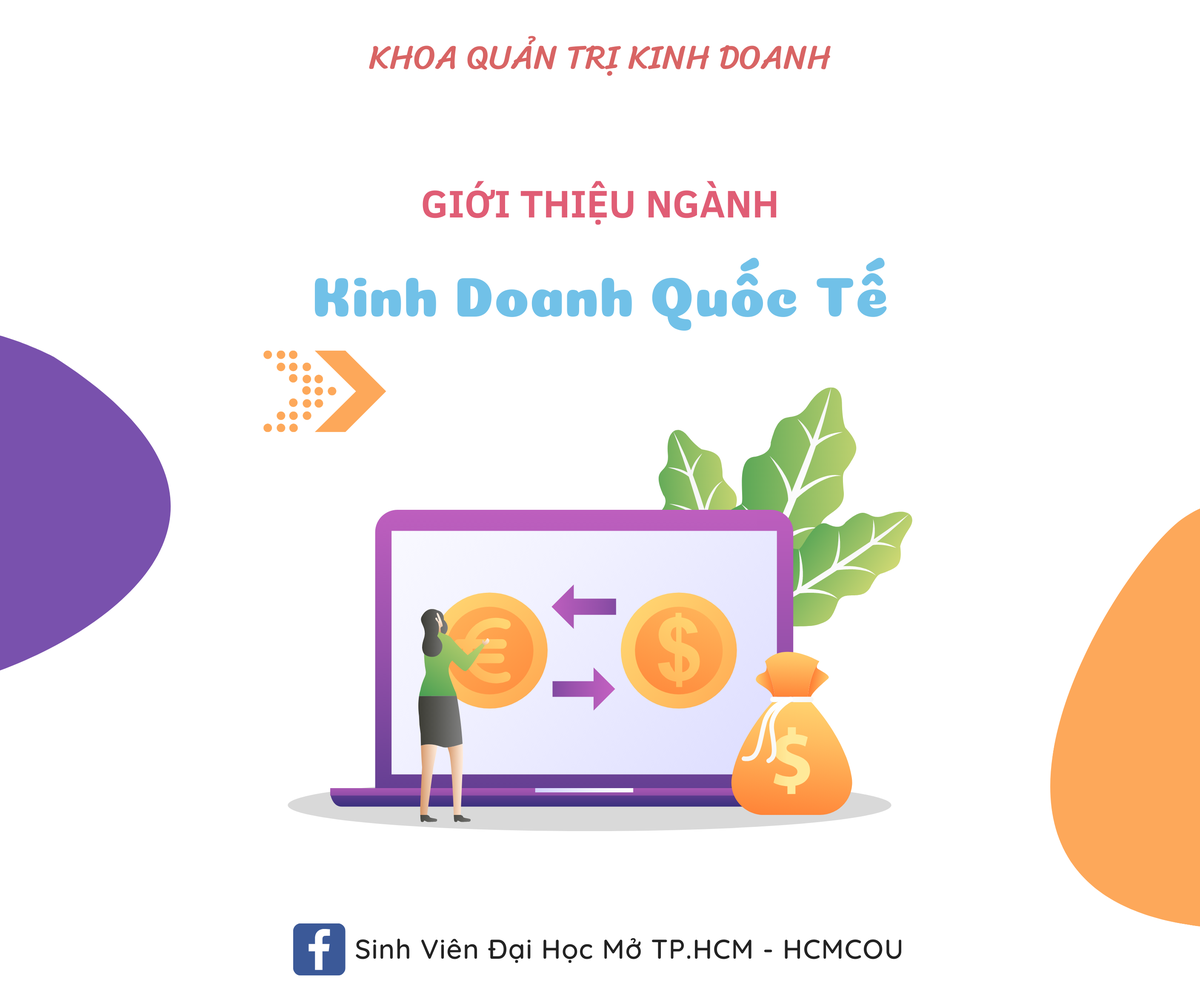
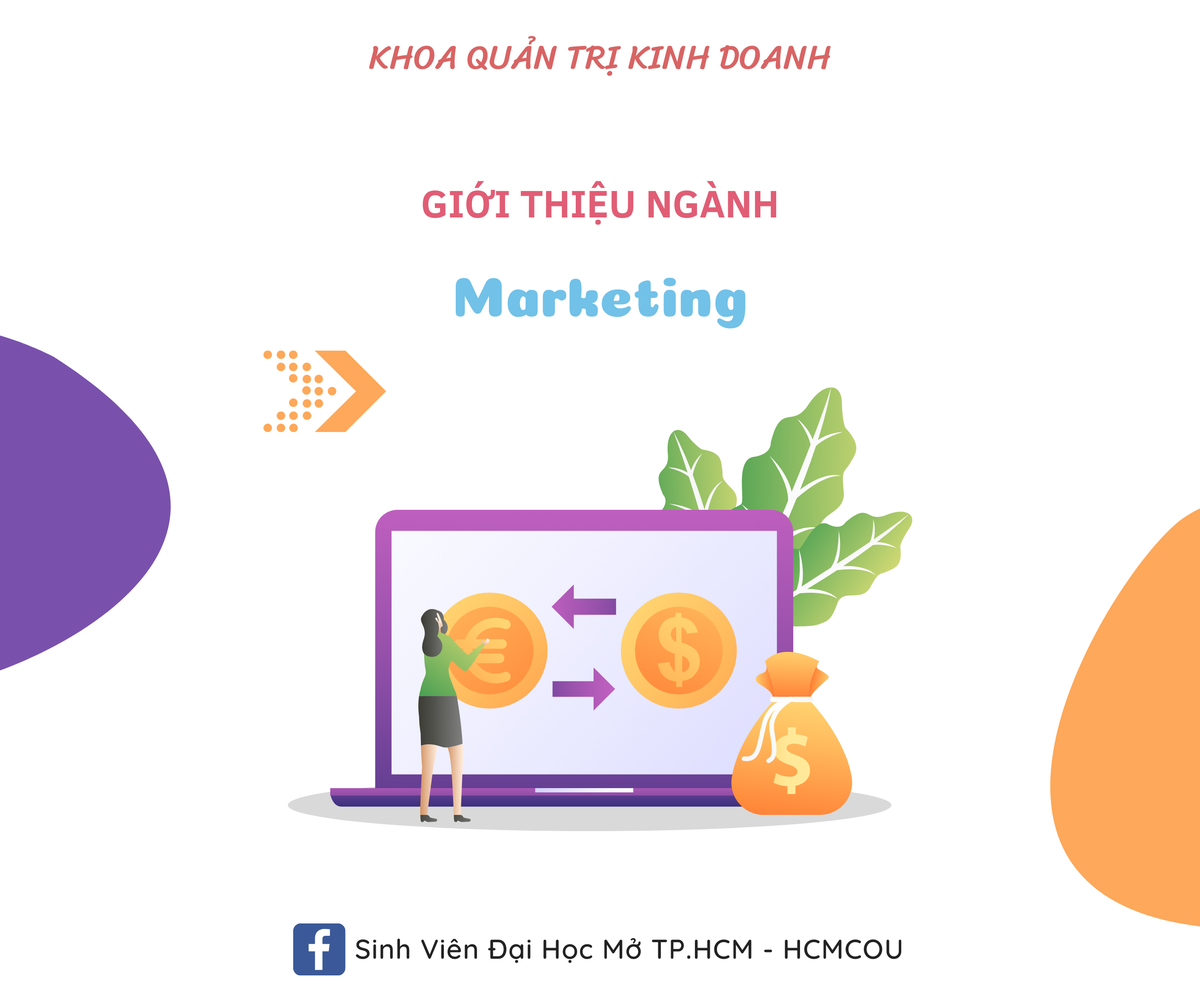
GitBook: [#24] No subject

Changed region(s): [[0.2496, 0.247, 0.7489, 0.3397]]

diff --git a/gioi-thieu-khoa-nganh-dao-tao/khoa-cong-nghe-sinh-hoc/nganh-cong-nghe-sinh-hoc.md b/gioi-thieu-khoa-nganh-dao-tao/khoa-cong-nghe-sinh-hoc/nganh-cong-nghe-sinh-hoc.md
@@ -11,32 +11,146 @@ coverY: 0
 ## Nội dung chương trình đào tạo
 
 {% hint style="info" %}
-Ngày 25/03 sẽ đăng tại đây và đăng trong group ["Sinh viên Đại học Mở TP.HCM- HCMCOU"](https://www.facebook.com/groups/oumembers)
+**Chương trình đào tạo CNSH**, hệ đại học chính quy có thời gian 4 năm (11 học kỳ). Với mục tiêu đào tạo giáo dục toàn diện một con người, phần kiến thức khoa học cơ bản trong CTĐT CNSH sẽ bao gồm các môn học như: Toán học, hóa học, tin học, con người và môi trường
+
+**Bên cạnh đó, phần kiến thức khoa học xã hội cũng sẽ được chọn lọc để đào tạo, bao gồm các môn học như:**
+
+* Tâm lý học đại cương/ Nguyên lý kế toán/ Kinh tế học đại cương
+* Pháp luật đại cương
+* Bên cạnh các môn học bắt buộc như:
+* Những nguyên lý cơ bản của Chủ nghĩa Mác – Lênin
+* Đường lối cách mạng của ĐCSVN
+* Tư tưởng Hồ Chí Minh
+{% endhint %}
+
+{% hint style="info" %}
+**Phần kiến thức cơ sở ngành (CNSH), CTĐT sẽ tập trung các chủ thể thuộc kiến thức Sinh học với các môn như:**
+
+* Sinh học đại cương
+* Tế bào học
+* Sinh học phân tử
+* Di truyền học
+* Vi sinh vật học
+* Sinh hóa học
+* Sinh lý động vật
+* Sinh lý thực vật
+{% endhint %}
+
+{% hint style="info" %}
+**Tiếp theo, các công nghệ cốt lõi của CNSH sẽ được truyền tài với các môn như:**
+
+* Công nghệ gen
+* Công nghệ protein – enzyme
+* Công nghệ tế bào
+* Công nghệ vi sinh
+* Quá trình và thiết bị CNSH
+{% endhint %}
+
+{% hint style="info" %}
+**Song song đó, phần kiến thức bổ trợ nhằm trang bị hỗ trợ cho SV các kĩ năng tính toán áp dụng trong CNSH, với các môn học điển hình như:**
+
+* Thống kê sinh học
+* Ứng dụng tin học trong CNSH
+* Phương pháp NCKH
 {% endhint %}
 
 ## Chuyên ngành
 
 {% hint style="info" %}
-Ngày 25/03 sẽ đăng tại đây và đăng trong group ["Sinh viên Đại học Mở TP.HCM- HCMCOU"](https://www.facebook.com/groups/oumembers)
+**Từ học kỳ thứ 8 sinh viên được chọn chuyên ngành với 3 chuyên ngành chính:**
+
+* Chuyên ngành CNSH Y – Dược
+* Chuyên ngành CNSH Nông nghiệp – Môi trường
+* Chuyên ngành Công nghệ Thực phẩm
+
+Giai đoạn chuyên ngành, CTĐT tiếp tục cung cấp kiến thức lý thuyết và thực tiễn thuộc từng lĩnh vực ứng dụng của Công nghệ Sinh học, những kỹ năng thực hành nghề nghiệp được chú trọng
+{% endhint %}
+
+### Chuyên ngành Công nghệ Sinh học Y – Dược
+
+{% hint style="info" %}
+CTĐT tập trung đào tạo các kiến thức và kĩ năng chuyên sâu về ứng dụng của CNSH trong chẩn đoán, trị liệu bệnh ở người, có kiến thức và kĩ năng để hiểu và khai thác tốt hơn nguồn dược liệu…, với các môn học điển hình như:
+
+* CNSH phân tử ứng dụng trong chẩn đoán bệnh ở người.
+* CNSH ứng dụng trong trị liệu bệnh ở người.
+* Vi sinh y học.
+* Vi sinh công nghệ dược.
+* CNSH thực vật ứng dụng trong dược học.
+* Chiết xuất dược liệu.
+* Miễn dịch học.
+* Hợp chất tự nhiên có hoạt tính sinh học.
+* Hệ thống quản lý chất lượng trong sản xuất dược phẩm.
+* Kĩ thuật phân tích hiện đại trong công nghệ sinh học.
+{% endhint %}
+
+### Chuyên ngành Công nghệ Sinh học Nông nghiệp – Môi trường
+
+{% hint style="info" %}
+CTĐT tập trung đào tạo các kiến thức và kĩ năng chuyên sâu về ứng dụng của CNSH trong chọn tạo giống thực vật, bảo vệ thực vật, nuôi cấy mô, tế bào thực vật, vi sinh vật; cũng như kiến thức và kĩ năng về môi trường, đánh giá tác động môi trường, quản lý môi truòng, với các môn điển hình như:
+
+* Kĩ thuật chuyển gen.
+* Kĩ thuật môi trường.
+* CNSH ứng dụng trong nông nghiệp – môi trường.
+* CNSH ứng dụng trong chọn tạo giống thực vật.
+* CNSH ứng dụng trong bảo vệ thực vật.
+* Công nghệ trồng nấm.
+* Công nghệ sản xuất phân bón sinh học.
+* Công nghệ sau thu hoạch.
+* Nông nghiệp công nghệ cao.
+* Đánh giá tác động môi trường.
+* Quản lý môi trường.
+{% endhint %}
+
+### Chuyên ngành Công nghệ Sinh học Thực phẩm
+
+{% hint style="info" %}
+CTĐT tập trung đào tạo các kiến thức và kĩ năng chuyên sâu trong khoa học thực phẩm, các kĩ thuật phân tích chất lượng, chế biến, sản xuất và bảo quản thực phẩm với các môn điển hình như:
+
+* Hóa sinh thực phẩm.
+* Dinh dưỡng người.
+* An toàn vệ sinh thực phẩm.
+* Kĩ thuật phân tích thực phẩm.
+* Vi sinh thực phẩm.
+* Thực phẩm chức năng.
+* Đánh giá cảm quan thực phẩm.
+* Các quá trình và thiết bị trong công nghệ thực phẩm.
+* Các kĩ thuật hiện đại trong công nghệ thực phẩm.
+* Công nghệ bảo quản và chế biến thịt và thủy sản.
+* Công nghệ bảo quản và chế biến rau quả.
 {% endhint %}
 
 ## Cơ hội việc làm
 
 {% hint style="info" %}
-Ngày 25/03 sẽ đăng tại đây và đăng trong group ["Sinh viên Đại học Mở TP.HCM- HCMCOU"](https://www.facebook.com/groups/oumembers)
+SV tốt nghiệp ngành CNSH, CNTP có thể làm việc trong nhiều lĩnh vực khác nhau y dược, nông nghiệp, môi trường, thực phẩm tại các tổ chức, cơ quan nhà nước hoặc doanh nghiệp tư nhân.
+
+* Nghiên cứu viên tại các Trường đại học, các cơ quan pháp y, các Trung tâm và Viện nghiên cứu, các Công ty, xí nghiệp, nhà máy sản xuất thuộc lĩnh vực CNSH, sinh học thực nghiệm và thực phẩm.
+* Chuyên viên tại các công ty chế biến nông sản, thực phẩm, thủy sản; Chuyên viên kiểm định chất lượng (QA), kiểm soát chất lượng nguyên liệu - sản phẩm (QC), nghiên cứu và phát triển sản phẩm mới (R\&D), quản lý an toàn vệ sinh thực phẩm dinh dưỡng thực phẩm, nhân viên kỹ thuật nghiên cứu tại các công ty hương liệu, phụ gia thực phẩm.
+* Kỹ thuật viên, kiểm nghiệm viên các Trung tâm kiểm nghiệm, trung tâm dịch vụ phân tích thí nghiệm.
+* Có thể tự tạo lập hoặc tham gia quản lý, điều hành trang trại, doanh nghiệp sản xuất, kinh doanh các sản phẩm CNSH
+* Nhân viên kinh doanh, tư vấn viên tại các đơn vị thương mại trong lĩnh vực Nông, Lâm, Ngư, Y Dược, Thực phẩm…, và tiếp tục học tập tại các bậc học cao hơn (cao học, nghiên cứu sinh) trong và ngoài nước.
 {% endhint %}
 
 ## Sự khác biệt của chương trình đào tạo
 
 {% hint style="info" %}
-Ngày 25/03 sẽ đăng tại đây và đăng trong group ["Sinh viên Đại học Mở TP.HCM- HCMCOU"](https://www.facebook.com/groups/oumembers)
+**CTĐT ngành Công Nghệ Sinh Học** được xây dựng hướng đến việc ứng dụng và kết hợp công nghệ, quy trình kỹ thuật hiện đại cùng nền tảng khoa học trong sinh học (vi sinh vật, tế bào thực vật và động vật) cũng như cải tạo các quy luật sinh học trong tự nhiên để sản xuất, tạo ra những sản phẩm sinh học chất lượng cao và có ích trong cuộc sống.
 {% endhint %}
 
-## Hoạt động sinh viên
+## Học phí
 
-{% hint style="info" %}
-Ngày 25/03 sẽ đăng tại đây và đăng trong group ["Sinh viên Đại học Mở TP.HCM- HCMCOU"](https://www.facebook.com/groups/oumembers)
-{% endhint %}
+| NGÀNH/NHÓM NGÀNH                                                                                                                                                                  | MỨC HỌC PHÍ BÌNH QUÂN      |
+| --------------------------------------------------------------------------------------------------------------------------------------------------------------------------------- | -------------------------- |
+| CÔNG NGHỆ SINH HỌC, CÔNG NGHỆ THỰC PHẨM                                                                                                                                           | 24,000,000/1 NĂM/SINH VIÊN |
+| CÔNG NGHỆ KỸ THUẬT CÔNG TRÌNH XÂY DỰNG, QUẢN LÝ XÂY DỰNG                                                                                                                          | 25,000,000/1 NĂM/SINH VIÊN |
+| KHOA HỌC MÁY TÍNH, HỆ THỐNG THÔNG TIN QUẢN LÝ, CÔNG NGHỆ THÔNG TIN                                                                                                                | 25,000,000/1 NĂM/SINH VIÊN |
+| KẾ TOÁN, KIỂM TOÁN,TÀI CHÍNH - NGÂN HÀNG, QUẢN TRỊ KINH DOANH, MARKETING, KINH DOANH QUỐC TẾ, QUẢN TRỊ NHÂN LỰC, LUẬT, LUẬT KINH TẾ, LOGISTICS VÀ QUẢN LÝ CHUỖI CUNG ỨNG, DU LỊCH | 23,000,000/1 NĂM/SINH VIÊN |
+| KINH TẾ - QUẢN LÝ CÔNG - XÃ HỘI HỌC- CÔNG TÁC XÃ HỘI- ĐÔNG NAM Á HỌC                                                                                                              | 20,000,000/1 NĂM/SINH VIÊN |
+| NGÔN NGỮ NHẬT, NGÔN NGỮ TRUNG QUỐC, NGÔN NGỮ ANH, NGÔN NGỮ HÀN QUỐC                                                                                                               | 23,000,000/1 NĂM/SINH VIÊN |
+
+## Infographic
+
+![1](<../../.gitbook/assets/1 - tiêu đề (2).png>) ![2](<../../.gitbook/assets/2 - giới thiệu chung (3).png>) ![3](<../../.gitbook/assets/3 - Đầu ra & Cơ hội việc làm (1).png>) ![4](<../../.gitbook/assets/4 - Đầu ra & Cơ hội việc làm (1).png>) ![5](<../../.gitbook/assets/5 - Đầu ra & Cơ hội việc làm.png>) ![6](<../../.gitbook/assets/6 - tỷ lệ có việc làm (1).png>) ![7](<../../.gitbook/assets/7 - Mục tiêu Chương trình đào tạo (1).png>) ![8](<../../.gitbook/assets/8 - Mục tiêu Chương trình đào tạo.png>) ![9](<../../.gitbook/assets/9 - ngành - chuyên ngành.png>) ![10](<../../.gitbook/assets/10 - Nội dung Chương trình đào tạo.png>) ![11](<../../.gitbook/assets/11 - Nội dung Chương trình đào tạo.png>) ![12](<../../.gitbook/assets/12 - Nội dung Chương trình đào tạo (1).png>) ![13](<../../.gitbook/assets/13 - Nội dung Chương trình đào tạo (1).png>) ![14](<../../.gitbook/assets/14 - Nội dung Chương trình đào tạo (1).png>) ![15](<../../.gitbook/assets/15 - Chuyên ngành  Công nghệ Sinh học  Y – Dược.png>) ![16](<../../.gitbook/assets/16 - Chuyên ngành  Công nghệ Sinh học  Y – Dược.png>) ![17](<../../.gitbook/assets/17 - chuyên ngành Công nghệ Sinh học Nông nghiệp – Môi trường.png>) ![18](<../../.gitbook/assets/18 - chuyên ngành Công nghệ Sinh học Nông nghiệp – Môi trường.png>) ![19](<../../.gitbook/assets/19 - chuyên ngành Công nghệ Sinh học Thực phẩm.png>) ![20](<../../.gitbook/assets/20 - chuyên ngành Công nghệ Sinh học Thực phẩm.png>) ![21](<../../.gitbook/assets/22 - HỌC PHÍ.png>) ![22](<../../.gitbook/assets/23 - HỌC PHÍ.png>) ![23](<../../.gitbook/assets/24 - liên hệ.png>)
 
 ## Thông tin liên hệ
 

diff --git a/gioi-thieu-khoa-nganh-dao-tao/khoa-cong-nghe-sinh-hoc/nganh-cong-nghe-thuc-pham.md b/gioi-thieu-khoa-nganh-dao-tao/khoa-cong-nghe-sinh-hoc/nganh-cong-nghe-thuc-pham.md
@@ -11,32 +11,88 @@ coverY: 0
 ## Nội dung chương trình đào tạo
 
 {% hint style="info" %}
-Ngày 25/03 sẽ đăng tại đây và đăng trong group ["Sinh viên Đại học Mở TP.HCM- HCMCOU"](https://www.facebook.com/groups/oumembers)
+**Chương trình đào tạo Công nghệ thực phẩm**, hệ đại học chính quy có thời gian 4 năm.
+
+Với mục tiêu đào tạo giáo dục toàn diện, phần kiến thức giáo dục đại cương trong CTĐT CNTP sẽ bao gồm các môn học thuộc các lĩnh vực như:
+
+* Lý luận chính trị (Triết học, Chủ nghĩa xã hội khoa học, Kinh tế chính trị,….
+* Khoa học xã hội, luật, kinh tế (Tâm lý học, Pháp luật đại cương, Kinh tế học, Logic học,….)
+* Khoa học tự nhiên, tin học (Hoá học đại cương, Tin học đại cương, Xác suất thống kê,…)
+
+Bên cạnh đó, để hoàn thiện kỹ năng sử dụng Ngoại ngữ phục vụ cho quá trình học tập và nghiên cứu trên giảng đường đại học cũng như sau khi tốt nghiệp, sinh viên được trang bị các học phần Tiếng Anh với nhiều cấp độ.
+{% endhint %}
+
+{% hint style="info" %}
+Hoàn thành các môn kiến thức giáo dục đại cương, Tiếng Anh và các học phần Giáo dục thể chất, sinh viên sẽ sẵn sàng cho các môn cơ sở ngành CNTP với các nhóm môn học như:
+
+**Các môn hoá:** Hoá hữu cơ – Hoá phân tích; Hoá lý; Hoá học thực phẩm; Hoá sinh thực phẩm
+
+* Vi sinh thực phẩm
+* Các quá trình và thiết bị trong công nghệ thực phẩm
+* An toàn vệ sinh thực phẩm
+* Phụ gia thực phẩm
+* Bao bì thực phẩm
+
+**Các môn công nghệ:** Công nghệ protein – enzyme; Công nghệ bảo quản và chế biến sau thu hoạch.
+{% endhint %}
+
+{% hint style="info" %}
+Dựa trên kiến thức của các môn cơ sở ngành vừa đề cập, sinh viên sẽ được ứng dụng vào xử lý các nguyên liệu, áp dụng các quá trình chế biến – bảo quản – đánh giá thực phẩm, xây dựng hệ thống thực phẩm cụ thể trong các môn học chuyên ngành như:
+
+* **Đánh giá chất lượng thực phẩm và hệ thống quản lý thực phẩm:** Đánh giá cảm quan thực phẩm, Kỹ thuật phân tích thực phẩm, Quản trị thực phẩm, Quản lý chuỗi cung ứng thực phẩm,…
+* **Các môn công nghệ chế biến các sản phẩm:** Công nghệ chế biến thịt – thuỷ sản; Công nghệ chế biến rau quả; Công nghệ chế biến lương thực; Công nghệ chế biến trà – cà phê – cacao, Công nghệ lên men thực phẩm,…
+{% endhint %}
+
+{% hint style="info" %}
+Các môn hoàn thiện và nâng cao kiến thức liên quan chuyên ngành CNTP: Dinh dưỡng người; Thực phẩm chức năng, Các kỹ thuật hiện đại trong CNTP; Công nghệ chiết xuất; Độc tố học thực phẩm; Phát triển sản phẩm và nghiên cứu thị trường; Luật thực phẩm,…
+{% endhint %}
+
+{% hint style="info" %}
+Bên cạnh đó, để hoàn thiện một số kỹ năng vận dụng cho nghiên cứu khoa học, các môn kiến thức bổ trợ cũng được quan tâm giảng dạy như: Thống kê sinh học ứng dụng trong CNTP, Tối ưu hoá – quy hoạch thực nghiệm, Phương pháp nghiên cứu khoa học,…
 {% endhint %}
 
 ## Chuyên ngành
 
 {% hint style="info" %}
-Ngày 25/03 sẽ đăng tại đây và đăng trong group ["Sinh viên Đại học Mở TP.HCM- HCMCOU"](https://www.facebook.com/groups/oumembers)
+Khoa Công nghệ Sinh học (CNSH) Trường ĐH Mở TP.HCM gồm hai khối ngành Công nghệ Thực phẩm (CNTP) và Công nghệ sinh học (CNSH) với 3 chuyên ngành:
+
+* CNSH Y Dược.
+* CNSH Thực phẩm.
+* CNSH Nông nghiệp - Môi trường.
 {% endhint %}
 
 ## Cơ hội việc làm
 
 {% hint style="info" %}
-Ngày 25/03 sẽ đăng tại đây và đăng trong group ["Sinh viên Đại học Mở TP.HCM- HCMCOU"](https://www.facebook.com/groups/oumembers)
+SV tốt nghiệp ngành CNSH, CNTP có thể làm việc trong nhiều lĩnh vực khác nhau y dược, nông nghiệp, môi trường, thực phẩm tại các tổ chức, cơ quan nhà nước hoặc doanh nghiệp tư nhân.
+
+* Nghiên cứu viên tại các Trường đại học, các cơ quan pháp y, các Trung tâm và Viện nghiên cứu, các Công ty, xí nghiệp, nhà máy sản xuất thuộc lĩnh vực CNSH, sinh học thực nghiệm và thực phẩm.
+* Chuyên viên tại các công ty chế biến nông sản, thực phẩm, thủy sản; Chuyên viên kiểm định chất lượng (QA), kiểm soát chất lượng nguyên liệu - sản phẩm (QC), nghiên cứu và phát triển sản phẩm mới (R\&D), quản lý an toàn vệ sinh thực phẩm dinh dưỡng thực phẩm, nhân viên kỹ thuật nghiên cứu tại các công ty hương liệu, phụ gia thực phẩm.
+* Kỹ thuật viên, kiểm nghiệm viên các Trung tâm kiểm nghiệm, trung tâm dịch vụ phân tích thí nghiệm.
+* Có thể tự tạo lập hoặc tham gia quản lý, điều hành trang trại, doanh nghiệp sản xuất, kinh doanh các sản phẩm CNSH
+* Nhân viên kinh doanh, tư vấn viên tại các đơn vị thương mại trong lĩnh vực Nông, Lâm, Ngư, Y Dược, Thực phẩm…, và tiếp tục học tập tại các bậc học cao hơn (cao học, nghiên cứu sinh) trong và ngoài nước.
 {% endhint %}
 
 ## Sự khác biệt của chương trình đào tạo
 
 {% hint style="info" %}
-Ngày 25/03 sẽ đăng tại đây và đăng trong group ["Sinh viên Đại học Mở TP.HCM- HCMCOU"](https://www.facebook.com/groups/oumembers)
+CTĐT ngành Công Nghệ Thực Phẩm nhằm trang bị cho người học những kiến thức về bảo quản, chế biến, đánh giá, kiểm định chất lượng sản phẩm, nghiên cứu phát triển sản phẩm mới; vận hành dây chuyền sản xuất thực phẩm; tổ chức, quản lý (công nghệ, kỹ thuật, chất lượng sản phẩm) và điều hành sản xuất, kinh doanh trong lĩnh vực công nghiệp thực phẩm.
 {% endhint %}
 
-## Hoạt động sinh viên
+## Học phí
 
-{% hint style="info" %}
-Ngày 25/03 sẽ đăng tại đây và đăng trong group ["Sinh viên Đại học Mở TP.HCM- HCMCOU"](https://www.facebook.com/groups/oumembers)
-{% endhint %}
+| NGÀNH/NHÓM NGÀNH                                                                                                                                                                  | MỨC HỌC PHÍ BÌNH QUÂN      |
+| --------------------------------------------------------------------------------------------------------------------------------------------------------------------------------- | -------------------------- |
+| CÔNG NGHỆ SINH HỌC, CÔNG NGHỆ THỰC PHẨM                                                                                                                                           | 24,000,000/1 NĂM/SINH VIÊN |
+| CÔNG NGHỆ KỸ THUẬT CÔNG TRÌNH XÂY DỰNG, QUẢN LÝ XÂY DỰNG                                                                                                                          | 25,000,000/1 NĂM/SINH VIÊN |
+| KHOA HỌC MÁY TÍNH, HỆ THỐNG THÔNG TIN QUẢN LÝ, CÔNG NGHỆ THÔNG TIN                                                                                                                | 25,000,000/1 NĂM/SINH VIÊN |
+| KẾ TOÁN, KIỂM TOÁN,TÀI CHÍNH - NGÂN HÀNG, QUẢN TRỊ KINH DOANH, MARKETING, KINH DOANH QUỐC TẾ, QUẢN TRỊ NHÂN LỰC, LUẬT, LUẬT KINH TẾ, LOGISTICS VÀ QUẢN LÝ CHUỖI CUNG ỨNG, DU LỊCH | 23,000,000/1 NĂM/SINH VIÊN |
+| KINH TẾ - QUẢN LÝ CÔNG - XÃ HỘI HỌC- CÔNG TÁC XÃ HỘI- ĐÔNG NAM Á HỌC                                                                                                              | 20,000,000/1 NĂM/SINH VIÊN |
+| NGÔN NGỮ NHẬT, NGÔN NGỮ TRUNG QUỐC, NGÔN NGỮ ANH, NGÔN NGỮ HÀN QUỐC                                                                                                               | 23,000,000/1 NĂM/SINH VIÊN |
+
+## Infographic
+
+![1](<../../.gitbook/assets/1 - tiêu đề (8).png>) ![2](<../../.gitbook/assets/2 - giới thiệu chung (6).png>) ![3](<../../.gitbook/assets/3 - Đầu ra & Cơ hội việc làm.png>) ![4](<../../.gitbook/assets/4 - Đầu ra & Cơ hội việc làm.png>) ![5](<../../.gitbook/assets/5 - Đầu ra & Cơ hội việc làm (1).png>) ![6](<../../.gitbook/assets/6 - tỷ lệ có việc làm.png>) ![7](<../../.gitbook/assets/7 - Mục tiêu Chương trình đào tạo.png>) ![8](<../../.gitbook/assets/8 - Mục tiêu Chương trình đào tạo (1).png>) ![9](<../../.gitbook/assets/9 - ngành - chuyên ngành (1).png>) ![10](<../../.gitbook/assets/10 - Nội dung Chương trình đào tạo (1).png>) ![11](<../../.gitbook/assets/11 - Nội dung Chương trình đào tạo (1).png>) ![12](<../../.gitbook/assets/12 - Nội dung Chương trình đào tạo.png>) ![13](<../../.gitbook/assets/13 - Nội dung Chương trình đào tạo.png>) ![14](<../../.gitbook/assets/14 - Nội dung Chương trình đào tạo.png>) ![15](<../../.gitbook/assets/16 - HỌC PHÍ.png>) ![16](<../../.gitbook/assets/17 - HỌC PHÍ.png>) ![17](<../../.gitbook/assets/18 - liên hệ.png>)
 
 ## Thông tin liên hệ
 

diff --git a/gioi-thieu-khoa-nganh-dao-tao/khoa-quan-tri-kinh-doanh/nganh-kinh-doanh-quoc-te.md b/gioi-thieu-khoa-nganh-dao-tao/khoa-quan-tri-kinh-doanh/nganh-kinh-doanh-quoc-te.md
@@ -69,7 +69,7 @@ Chương trình đào tạo cử nhân của khoa QTKD cung cấp kiến thức 
 
 ## Infographic
 
-![1](<../../.gitbook/assets/1 - tiêu đề (4).png>) ![2](<../../.gitbook/assets/2 - giới thiệu chung (6).png>) ![3](<../../.gitbook/assets/3 - Ngành & việc làm (5).png>) ![4](<../../.gitbook/assets/4 - NGÀNH KINH DOANH QUỐC TẾ 1.png>) ![5](<../../.gitbook/assets/5 - NGÀNH KINH DOANH QUỐC TẾ 2.png>) ![6](<../../.gitbook/assets/6 - NGÀNH KINH DOANH QUỐC TẾ 3.png>) ![7](<../../.gitbook/assets/7 - NGÀNH KINH DOANH QUỐC TẾ 4.png>) ![8](<../../.gitbook/assets/8 - NGÀNH KINH DOANH QUỐC TẾ 5.png>) ![9](<../../.gitbook/assets/9 - Mục tiêu đào tạo.png>) ![10](<../../.gitbook/assets/10 - MỤC TIÊU ĐÀO TẠO (1).png>) ![11](<../../.gitbook/assets/11 - NỘI DUNG CHƯƠNG TRÌNH ĐÀO TẠO (1).png>) ![12](<../../.gitbook/assets/12 - NỘI DUNG CHƯƠNG TRÌNH ĐÀO TẠO (1).png>) ![13](<../../.gitbook/assets/14 - học phí (1).png>) ![14](<../../.gitbook/assets/15 - học phí (1).png>) ![15](<../../.gitbook/assets/16 - thông tin khác (1).png>)
+![1](<../../.gitbook/assets/1 - tiêu đề (5).png>) ![2](<../../.gitbook/assets/2 - giới thiệu chung (8).png>) ![3](<../../.gitbook/assets/3 - Ngành & việc làm (5).png>) ![4](<../../.gitbook/assets/4 - NGÀNH KINH DOANH QUỐC TẾ 1.png>) ![5](<../../.gitbook/assets/5 - NGÀNH KINH DOANH QUỐC TẾ 2.png>) ![6](<../../.gitbook/assets/6 - NGÀNH KINH DOANH QUỐC TẾ 3.png>) ![7](<../../.gitbook/assets/7 - NGÀNH KINH DOANH QUỐC TẾ 4.png>) ![8](<../../.gitbook/assets/8 - NGÀNH KINH DOANH QUỐC TẾ 5.png>) ![9](<../../.gitbook/assets/9 - Mục tiêu đào tạo.png>) ![10](<../../.gitbook/assets/10 - MỤC TIÊU ĐÀO TẠO (1).png>) ![11](<../../.gitbook/assets/11 - NỘI DUNG CHƯƠNG TRÌNH ĐÀO TẠO (1).png>) ![12](<../../.gitbook/assets/12 - NỘI DUNG CHƯƠNG TRÌNH ĐÀO TẠO (1).png>) ![13](<../../.gitbook/assets/14 - học phí (1).png>) ![14](<../../.gitbook/assets/15 - học phí (1).png>) ![15](<../../.gitbook/assets/16 - thông tin khác (1).png>)
 
 ## Thông tin liên hệ
 

diff --git a/gioi-thieu-khoa-nganh-dao-tao/khoa-quan-tri-kinh-doanh/nganh-quan-tri-nhan-luc.md b/gioi-thieu-khoa-nganh-dao-tao/khoa-quan-tri-kinh-doanh/nganh-quan-tri-nhan-luc.md
@@ -65,7 +65,7 @@ Chương trình đào tạo cử nhân của khoa QTKD cung cấp kiến thức 
 
 ## Infographic
 
-![1](<../../.gitbook/assets/1 - tiêu đề (6).png>) ![2](<../../.gitbook/assets/2 - giới thiệu chung.png>) ![3](<../../.gitbook/assets/3 - Ngành & việc làm (3).png>) ![4](<../../.gitbook/assets/4 - NGÀNH QUẢN TRỊ NHÂN LỰC 1.png>) ![5](<../../.gitbook/assets/5 - NGÀNH QUẢN TRỊ NHÂN LỰC 2.png>) ![6](<../../.gitbook/assets/6 - NGÀNH QUẢN TRỊ NHÂN LỰC 3.png>) ![7](<../../.gitbook/assets/7 - NGÀNH QUẢN TRỊ NHÂN LỰC 4.png>) ![8](<../../.gitbook/assets/8 - Mục tiêu đào tạo.png>) ![9](<../../.gitbook/assets/8 - NGÀNH QUẢN TRỊ NHÂN LỰC 5.png>) ![10](<../../.gitbook/assets/10 - MỤC TIÊU ĐÀO TẠO.png>) ![11](<../../.gitbook/assets/11 - NỘI DUNG CHƯƠNG TRÌNH ĐÀO TẠO.png>) ![12](<../../.gitbook/assets/12 - NỘI DUNG CHƯƠNG TRÌNH ĐÀO TẠO.png>) ![13](<../../.gitbook/assets/14 - học phí.png>) ![14](<../../.gitbook/assets/15 - học phí.png>) ![15](<../../.gitbook/assets/16 - thông tin khác.png>)
+![1](<../../.gitbook/assets/1 - tiêu đề (7).png>) ![2](<../../.gitbook/assets/2 - giới thiệu chung.png>) ![3](<../../.gitbook/assets/3 - Ngành & việc làm (3).png>) ![4](<../../.gitbook/assets/4 - NGÀNH QUẢN TRỊ NHÂN LỰC 1.png>) ![5](<../../.gitbook/assets/5 - NGÀNH QUẢN TRỊ NHÂN LỰC 2.png>) ![6](<../../.gitbook/assets/6 - NGÀNH QUẢN TRỊ NHÂN LỰC 3.png>) ![7](<../../.gitbook/assets/7 - NGÀNH QUẢN TRỊ NHÂN LỰC 4.png>) ![8](<../../.gitbook/assets/8 - Mục tiêu đào tạo.png>) ![9](<../../.gitbook/assets/8 - NGÀNH QUẢN TRỊ NHÂN LỰC 5.png>) ![10](<../../.gitbook/assets/10 - MỤC TIÊU ĐÀO TẠO.png>) ![11](<../../.gitbook/assets/11 - NỘI DUNG CHƯƠNG TRÌNH ĐÀO TẠO.png>) ![12](<../../.gitbook/assets/12 - NỘI DUNG CHƯƠNG TRÌNH ĐÀO TẠO.png>) ![13](<../../.gitbook/assets/14 - học phí.png>) ![14](<../../.gitbook/assets/15 - học phí.png>) ![15](<../../.gitbook/assets/16 - thông tin khác.png>)
 
 ## Thông tin liên hệ
 

diff --git a/gioi-thieu-khoa-nganh-dao-tao/khoa-quan-tri-kinh-doanh/nganh-logistics-and-quan-ly-chuoi-cung-ung.md b/gioi-thieu-khoa-nganh-dao-tao/khoa-quan-tri-kinh-doanh/nganh-logistics-and-quan-ly-chuoi-cung-ung.md
@@ -60,7 +60,7 @@ Chương trình đào tạo cử nhân của khoa QTKD cung cấp kiến thức 
 
 ## Infographic
 
-![1](<../../.gitbook/assets/1 - tiêu đề (5).png>) ![2](<../../.gitbook/assets/2 - giới thiệu chung (2).png>) ![3](<../../.gitbook/assets/3 - Ngành & việc làm (4).png>) ![4](<../../.gitbook/assets/4 - NGÀNH LOGISTICS VÀ QUẢN LÝ CHUỖI CUNG ỨNG 1.png>) ![5](<../../.gitbook/assets/5 - NGÀNH LOGISTICS VÀ QUẢN LÝ CHUỖI CUNG ỨNG 2.png>) ![6](<../../.gitbook/assets/6 - NGÀNH LOGISTICS VÀ QUẢN LÝ CHUỖI CUNG ỨNG 3.png>) ![7](<../../.gitbook/assets/7 - Mục tiêu đào tạo.png>) ![8](<../../.gitbook/assets/8 - MỤC TIÊU ĐÀO TẠO (2).png>) ![9](<../../.gitbook/assets/9 - NỘI DUNG CHƯƠNG TRÌNH ĐÀO TẠO (3).png>) ![10](<../../.gitbook/assets/10 - NỘI DUNG CHƯƠNG TRÌNH ĐÀO TẠO (2).png>) ![11](<../../.gitbook/assets/12 - học phí (3).png>) ![12](<../../.gitbook/assets/13 - học phí (2).png>) ![13](<../../.gitbook/assets/14 - thông tin khác (1).png>)
+![1](<../../.gitbook/assets/1 - tiêu đề (6).png>) ![2](<../../.gitbook/assets/2 - giới thiệu chung (2).png>) ![3](<../../.gitbook/assets/3 - Ngành & việc làm (4).png>) ![4](<../../.gitbook/assets/4 - NGÀNH LOGISTICS VÀ QUẢN LÝ CHUỖI CUNG ỨNG 1.png>) ![5](<../../.gitbook/assets/5 - NGÀNH LOGISTICS VÀ QUẢN LÝ CHUỖI CUNG ỨNG 2.png>) ![6](<../../.gitbook/assets/6 - NGÀNH LOGISTICS VÀ QUẢN LÝ CHUỖI CUNG ỨNG 3.png>) ![7](<../../.gitbook/assets/7 - Mục tiêu đào tạo.png>) ![8](<../../.gitbook/assets/8 - MỤC TIÊU ĐÀO TẠO (2).png>) ![9](<../../.gitbook/assets/9 - NỘI DUNG CHƯƠNG TRÌNH ĐÀO TẠO (3).png>) ![10](<../../.gitbook/assets/10 - NỘI DUNG CHƯƠNG TRÌNH ĐÀO TẠO (2).png>) ![11](<../../.gitbook/assets/12 - học phí (3).png>) ![12](<../../.gitbook/assets/13 - học phí (2).png>) ![13](<../../.gitbook/assets/14 - thông tin khác (1).png>)
 
 ## Thông tin liên hệ
 

diff --git a/gioi-thieu-khoa-nganh-dao-tao/khoa-quan-tri-kinh-doanh/nganh-marketing.md b/gioi-thieu-khoa-nganh-dao-tao/khoa-quan-tri-kinh-doanh/nganh-marketing.md
@@ -72,7 +72,7 @@ Chương trình đào tạo cử nhân của khoa QTKD cung cấp kiến thức 
 
 ## Infographic
 
-![1](<../../.gitbook/assets/1 - tiêu đề (3).png>) ![2](<../../.gitbook/assets/2 - giới thiệu chung (4).png>) ![3](<../../.gitbook/assets/3 - Ngành & việc làm (1).png>) ![4](<../../.gitbook/assets/4 - NGÀNH MARKETING 1.png>) ![5](<../../.gitbook/assets/5 - NGÀNH MARKETING 2.png>) ![6](<../../.gitbook/assets/6 - NGÀNH MARKETING 3.png>) ![7](<../../.gitbook/assets/7 - MỤC TIÊU ĐÀO TẠO (2).png>) ![8](<../../.gitbook/assets/8 - MỤC TIÊU ĐÀO TẠO (1).png>) ![9](<../../.gitbook/assets/9 - NỘI DUNG CHƯƠNG TRÌNH ĐÀO TẠO (2).png>) ![10](<../../.gitbook/assets/10 - NỘI DUNG CHƯƠNG TRÌNH ĐÀO TẠO.png>) ![11](<../../.gitbook/assets/12 - học phí (2).png>) ![12](<../../.gitbook/assets/13 - học phí.png>) ![13](<../../.gitbook/assets/14 - thông tin khác.png>)
+![1](<../../.gitbook/assets/1 - tiêu đề (4).png>) ![2](<../../.gitbook/assets/2 - giới thiệu chung (5).png>) ![3](<../../.gitbook/assets/3 - Ngành & việc làm (1).png>) ![4](<../../.gitbook/assets/4 - NGÀNH MARKETING 1.png>) ![5](<../../.gitbook/assets/5 - NGÀNH MARKETING 2.png>) ![6](<../../.gitbook/assets/6 - NGÀNH MARKETING 3.png>) ![7](<../../.gitbook/assets/7 - MỤC TIÊU ĐÀO TẠO (2).png>) ![8](<../../.gitbook/assets/8 - MỤC TIÊU ĐÀO TẠO (1).png>) ![9](<../../.gitbook/assets/9 - NỘI DUNG CHƯƠNG TRÌNH ĐÀO TẠO (2).png>) ![10](<../../.gitbook/assets/10 - NỘI DUNG CHƯƠNG TRÌNH ĐÀO TẠO.png>) ![11](<../../.gitbook/assets/12 - học phí (2).png>) ![12](<../../.gitbook/assets/13 - học phí.png>) ![13](<../../.gitbook/assets/14 - thông tin khác.png>)
 
 ## Thông tin liên hệ
 

diff --git a/gioi-thieu-khoa-nganh-dao-tao/khoa-quan-tri-kinh-doanh/nganh-quan-tri-kinh-doanh.md b/gioi-thieu-khoa-nganh-dao-tao/khoa-quan-tri-kinh-doanh/nganh-quan-tri-kinh-doanh.md
@@ -62,7 +62,7 @@ Chương trình đào tạo cử nhân của khoa QTKD cung cấp kiến thức 
 
 ## Infographic
 
-![1](<../../.gitbook/assets/1 - tiêu đề.png>) ![2](<../../.gitbook/assets/2 - giới thiệu chung (5).png>) ![3](<../../.gitbook/assets/3 - Ngành & việc làm.png>) ![4](<../../.gitbook/assets/4 - NGÀNH QUẢN TRỊ KINH DOANH.png>) ![5](<../../.gitbook/assets/5 - NGÀNH QUẢN TRỊ KINH DOANH.png>) ![6](<../../.gitbook/assets/6 - NGÀNH QUẢN TRỊ KINH DOANH.png>) ![7](<../../.gitbook/assets/7 - MỤC TIÊU ĐÀO TẠO (1).png>) ![8](<../../.gitbook/assets/8 - MỤC TIÊU ĐÀO TẠO.png>) ![9](<../../.gitbook/assets/9 - NỘI DUNG CHƯƠNG TRÌNH ĐÀO TẠO.png>) ![10](<../../.gitbook/assets/10 - NỘI DUNG CHƯƠNG TRÌNH ĐÀO TẠO (1).png>) ![11](<../../.gitbook/assets/12 - học phí (1).png>) ![12](<../../.gitbook/assets/13 - học phí (1).png>)
+![1](<../../.gitbook/assets/1 - tiêu đề.png>) ![2](<../../.gitbook/assets/2 - giới thiệu chung (7).png>) ![3](<../../.gitbook/assets/3 - Ngành & việc làm.png>) ![4](<../../.gitbook/assets/4 - NGÀNH QUẢN TRỊ KINH DOANH.png>) ![5](<../../.gitbook/assets/5 - NGÀNH QUẢN TRỊ KINH DOANH.png>) ![6](<../../.gitbook/assets/6 - NGÀNH QUẢN TRỊ KINH DOANH.png>) ![7](<../../.gitbook/assets/7 - MỤC TIÊU ĐÀO TẠO (1).png>) ![8](<../../.gitbook/assets/8 - MỤC TIÊU ĐÀO TẠO.png>) ![9](<../../.gitbook/assets/9 - NỘI DUNG CHƯƠNG TRÌNH ĐÀO TẠO.png>) ![10](<../../.gitbook/assets/10 - NỘI DUNG CHƯƠNG TRÌNH ĐÀO TẠO (1).png>) ![11](<../../.gitbook/assets/12 - học phí (1).png>) ![12](<../../.gitbook/assets/13 - học phí (1).png>)
 
 ## Thông tin liên hệ
 

diff --git a/gioi-thieu-khoa-nganh-dao-tao/khoa-cong-nghe-thong-tin/nganh-he-thong-thong-tin-quan-ly.md b/gioi-thieu-khoa-nganh-dao-tao/khoa-cong-nghe-thong-tin/nganh-he-thong-thong-tin-quan-ly.md
@@ -54,7 +54,7 @@ Sau khi học xong chương trình, cử nhân ngành Hệ thống thông tin q
 
 ## Infographic
 
-![1](<../../.gitbook/assets/1 - tiêu đề (1) (1).png>) ![2](<../../.gitbook/assets/2 - giới thiệu chung (3).png>) ![3](<../../.gitbook/assets/3 - ngành - chuyên ngành (2).png>) ![4](<../../.gitbook/assets/4 - việc làm (2).png>) ![5](<../../.gitbook/assets/5 - chuyên ngành - việc làm.png>) ![6](<../../.gitbook/assets/6 - chuyên ngành - việc làm.png>) ![7](<../../.gitbook/assets/7 - tỷ lệ việc làm.png>) ![8](<../../.gitbook/assets/8 - nd ctdt.png>) ![9](<../../.gitbook/assets/9 - nd ctdt (2).png>) ![10](<../../.gitbook/assets/10 - nd ctdt (2).png>) ![11](<../../.gitbook/assets/12 - HỌC PHÍ.png>) ![12](<../../.gitbook/assets/13 - HỌC PHÍ (1).png>)
+![1](<../../.gitbook/assets/1 - tiêu đề (1) (1).png>) ![2](<../../.gitbook/assets/2 - giới thiệu chung (4).png>) ![3](<../../.gitbook/assets/3 - ngành - chuyên ngành (2).png>) ![4](<../../.gitbook/assets/4 - việc làm (2).png>) ![5](<../../.gitbook/assets/5 - chuyên ngành - việc làm.png>) ![6](<../../.gitbook/assets/6 - chuyên ngành - việc làm.png>) ![7](<../../.gitbook/assets/7 - tỷ lệ việc làm.png>) ![8](<../../.gitbook/assets/8 - nd ctdt.png>) ![9](<../../.gitbook/assets/9 - nd ctdt (2).png>) ![10](<../../.gitbook/assets/10 - nd ctdt (2).png>) ![11](<../../.gitbook/assets/12 - HỌC PHÍ.png>) ![12](<../../.gitbook/assets/13 - HỌC PHÍ (1).png>)
 
 ## Thông tin liên hệ
 

diff --git a/gioi-thieu-khoa-nganh-dao-tao/khoa-cong-nghe-thong-tin/nganh-khoa-hoc-may-tinh.md b/gioi-thieu-khoa-nganh-dao-tao/khoa-cong-nghe-thong-tin/nganh-khoa-hoc-may-tinh.md
@@ -54,7 +54,7 @@ Trước khi ra trường, sinh viên phải trải qua một kỳ thực tập 
 
 ## Infographic
 
-![1](<../../.gitbook/assets/1 - tiêu đề (2).png>) ![2](<../../.gitbook/assets/3 - ngành - chuyên ngành.png>) ![3](<../../.gitbook/assets/4 - ngành - chuyên ngành.png>) ![4](<../../.gitbook/assets/5 - ngành - chuyên ngành.png>) ![5](<../../.gitbook/assets/6 - ngành - chuyên ngành.png>) ![6](<../../.gitbook/assets/7 - ngành - chuyên ngành.png>) ![7](<../../.gitbook/assets/8 - tỷ lệ việc làm (2).png>) ![8](<../../.gitbook/assets/9 - nd ctdt (1).png>) ![9](<../../.gitbook/assets/10 - nd ctdt (1).png>) ![10](<../../.gitbook/assets/11 - nd ctdt.png>) ![11](<../../.gitbook/assets/13 - HỌC PHÍ.png>) ![12](<../../.gitbook/assets/14 - HỌC PHÍ.png>)
+![1](<../../.gitbook/assets/1 - tiêu đề (3).png>) ![2](<../../.gitbook/assets/3 - ngành - chuyên ngành.png>) ![3](<../../.gitbook/assets/4 - ngành - chuyên ngành.png>) ![4](<../../.gitbook/assets/5 - ngành - chuyên ngành.png>) ![5](<../../.gitbook/assets/6 - ngành - chuyên ngành.png>) ![6](<../../.gitbook/assets/7 - ngành - chuyên ngành.png>) ![7](<../../.gitbook/assets/8 - tỷ lệ việc làm (2).png>) ![8](<../../.gitbook/assets/9 - nd ctdt (1).png>) ![9](<../../.gitbook/assets/10 - nd ctdt (1).png>) ![10](<../../.gitbook/assets/11 - nd ctdt.png>) ![11](<../../.gitbook/assets/13 - HỌC PHÍ.png>) ![12](<../../.gitbook/assets/14 - HỌC PHÍ.png>)
 
 ## Thông tin liên hệ
 
